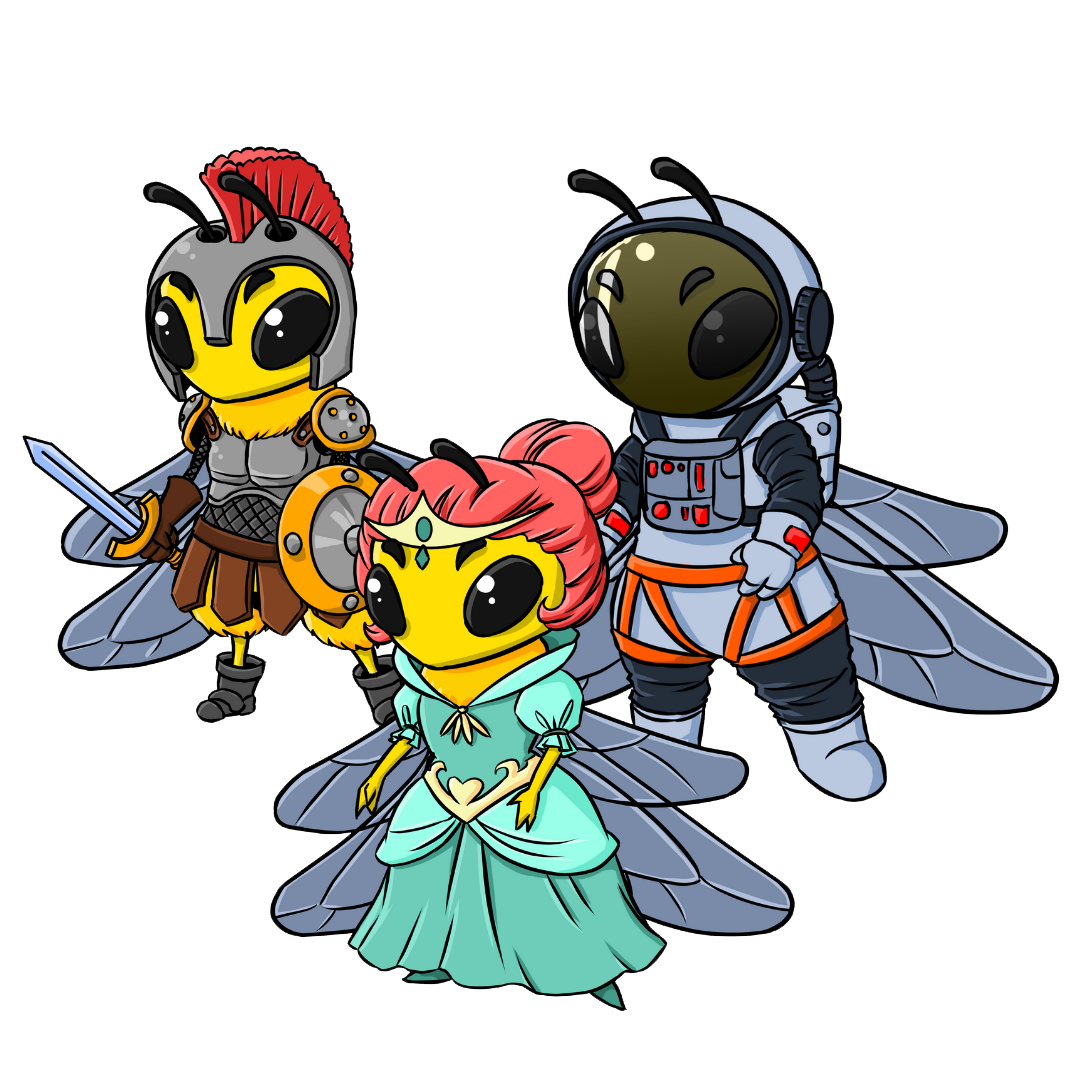
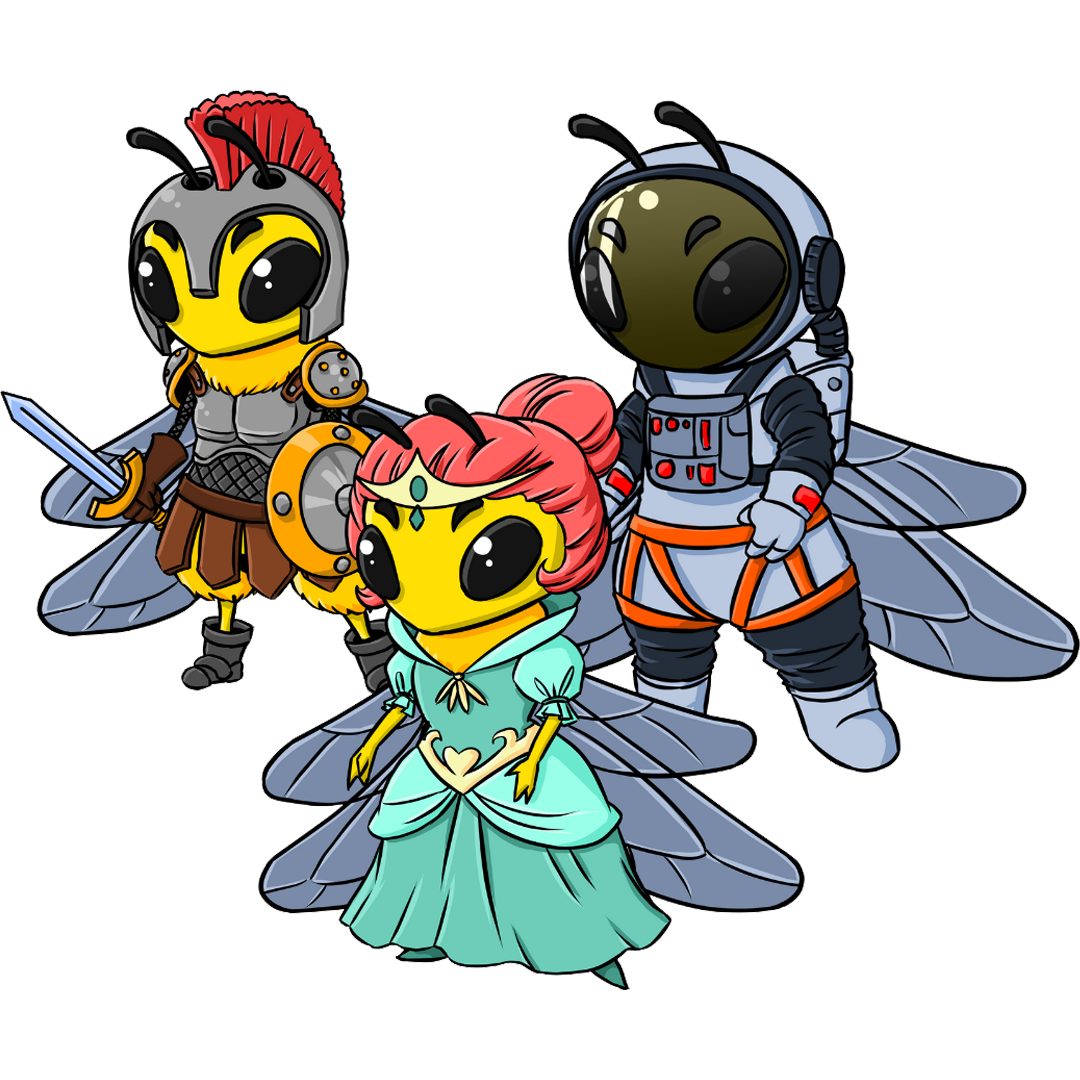
h1 bottom

diff --git a/src/components/home/styles.ts b/src/components/home/styles.ts
@@ -42,7 +42,7 @@ export const Contents = styled.div`
     h1{
         align-items: center;
         padding-top: ${px2vw(40)};
-        padding-bottom: ${px2vw(30)};
+        padding-bottom: ${px2vw(10)};
         font-size: ${px2vw(55)};
         color:#fff;
     }
@@ -127,7 +127,6 @@ export const Contents = styled.div`
         align-items: center;
         margin-left: auto;
         margin-right: auto;
-        margin-top: ${px2vw(20)};
         margin-bottom: ${px2vw(20)};
     }
     
@@ -142,16 +141,16 @@ export const Contents = styled.div`
     }
 
     .nft-central{
-        width: 85%;
+        width: 75%;
     }
 
     .nft-side{
-        width: 70%;
+        width: 60%;
         margin-top:  ${px2vw(-50)}; 
     }
 
     .nft-outside{
-        width: 60%;
+        width: 50%;
         margin-top:  ${px2vw(-120)}; 
     }
 
